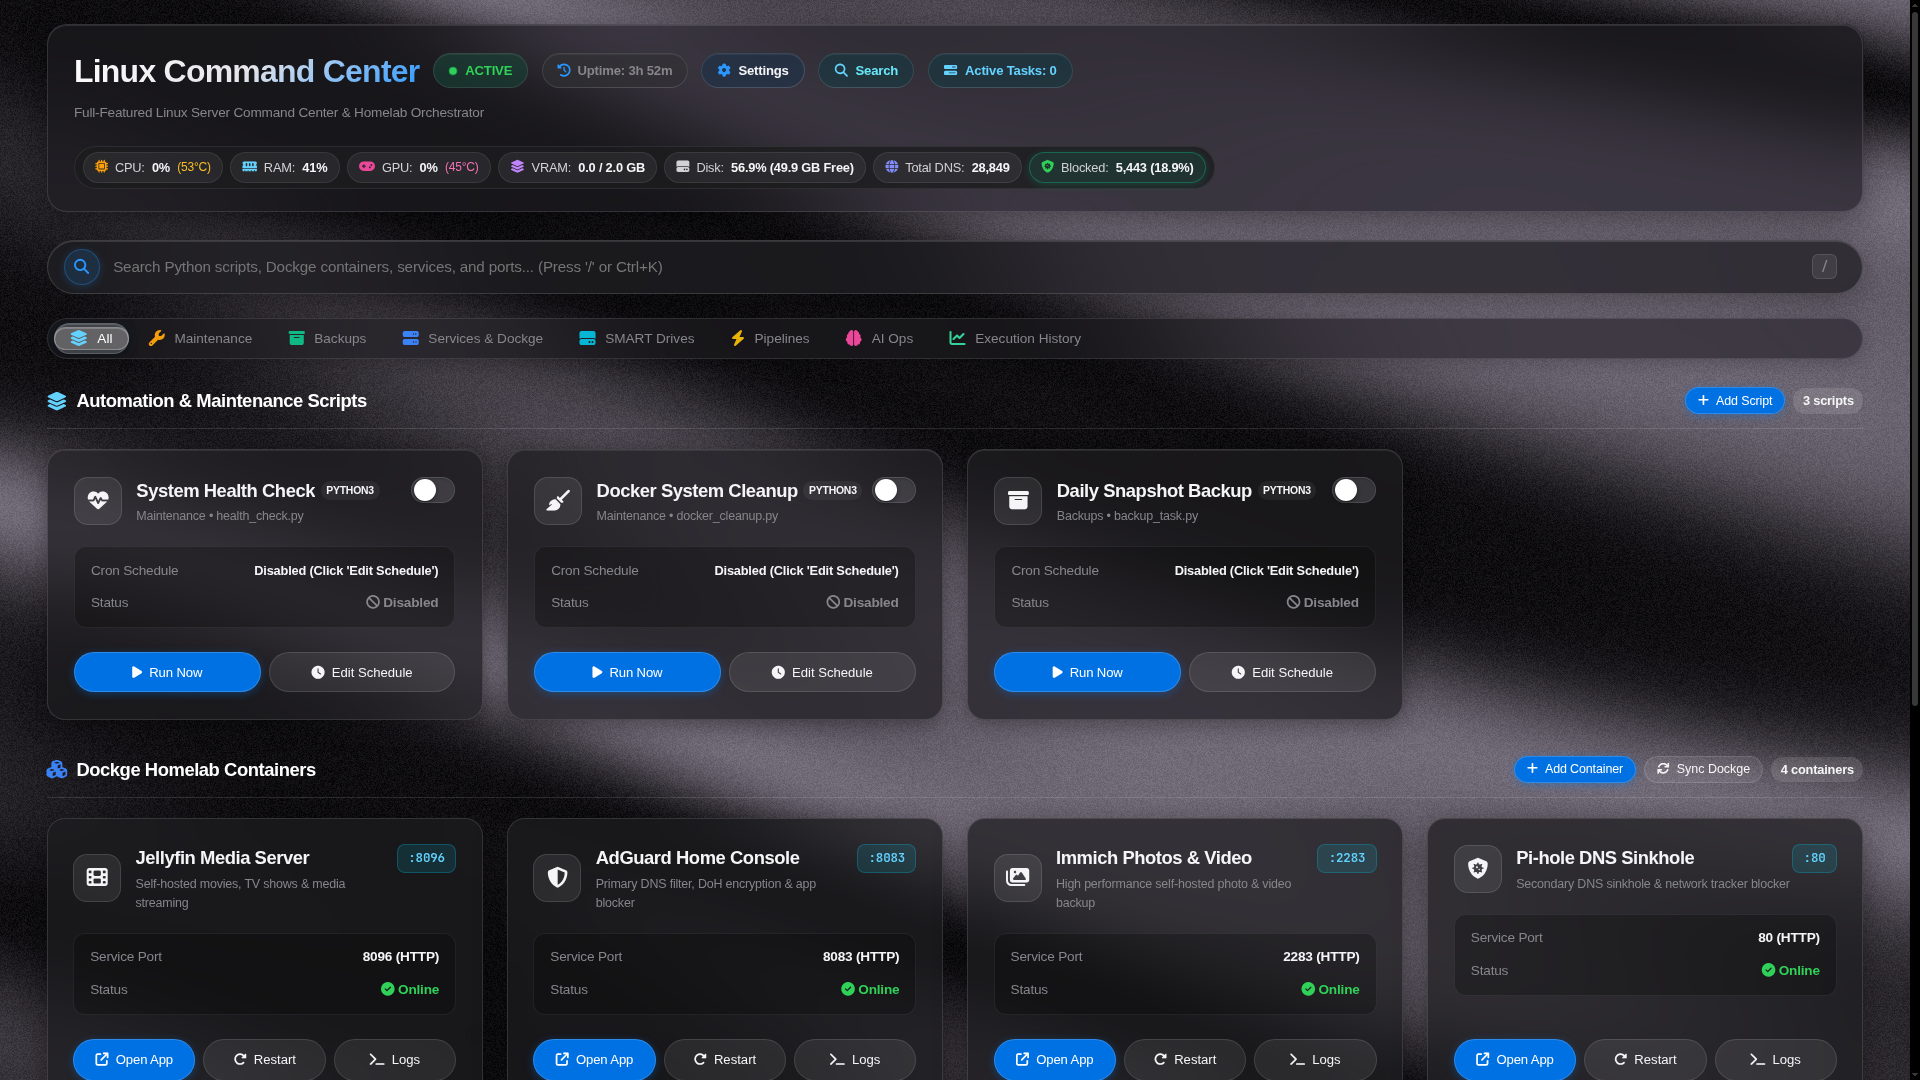
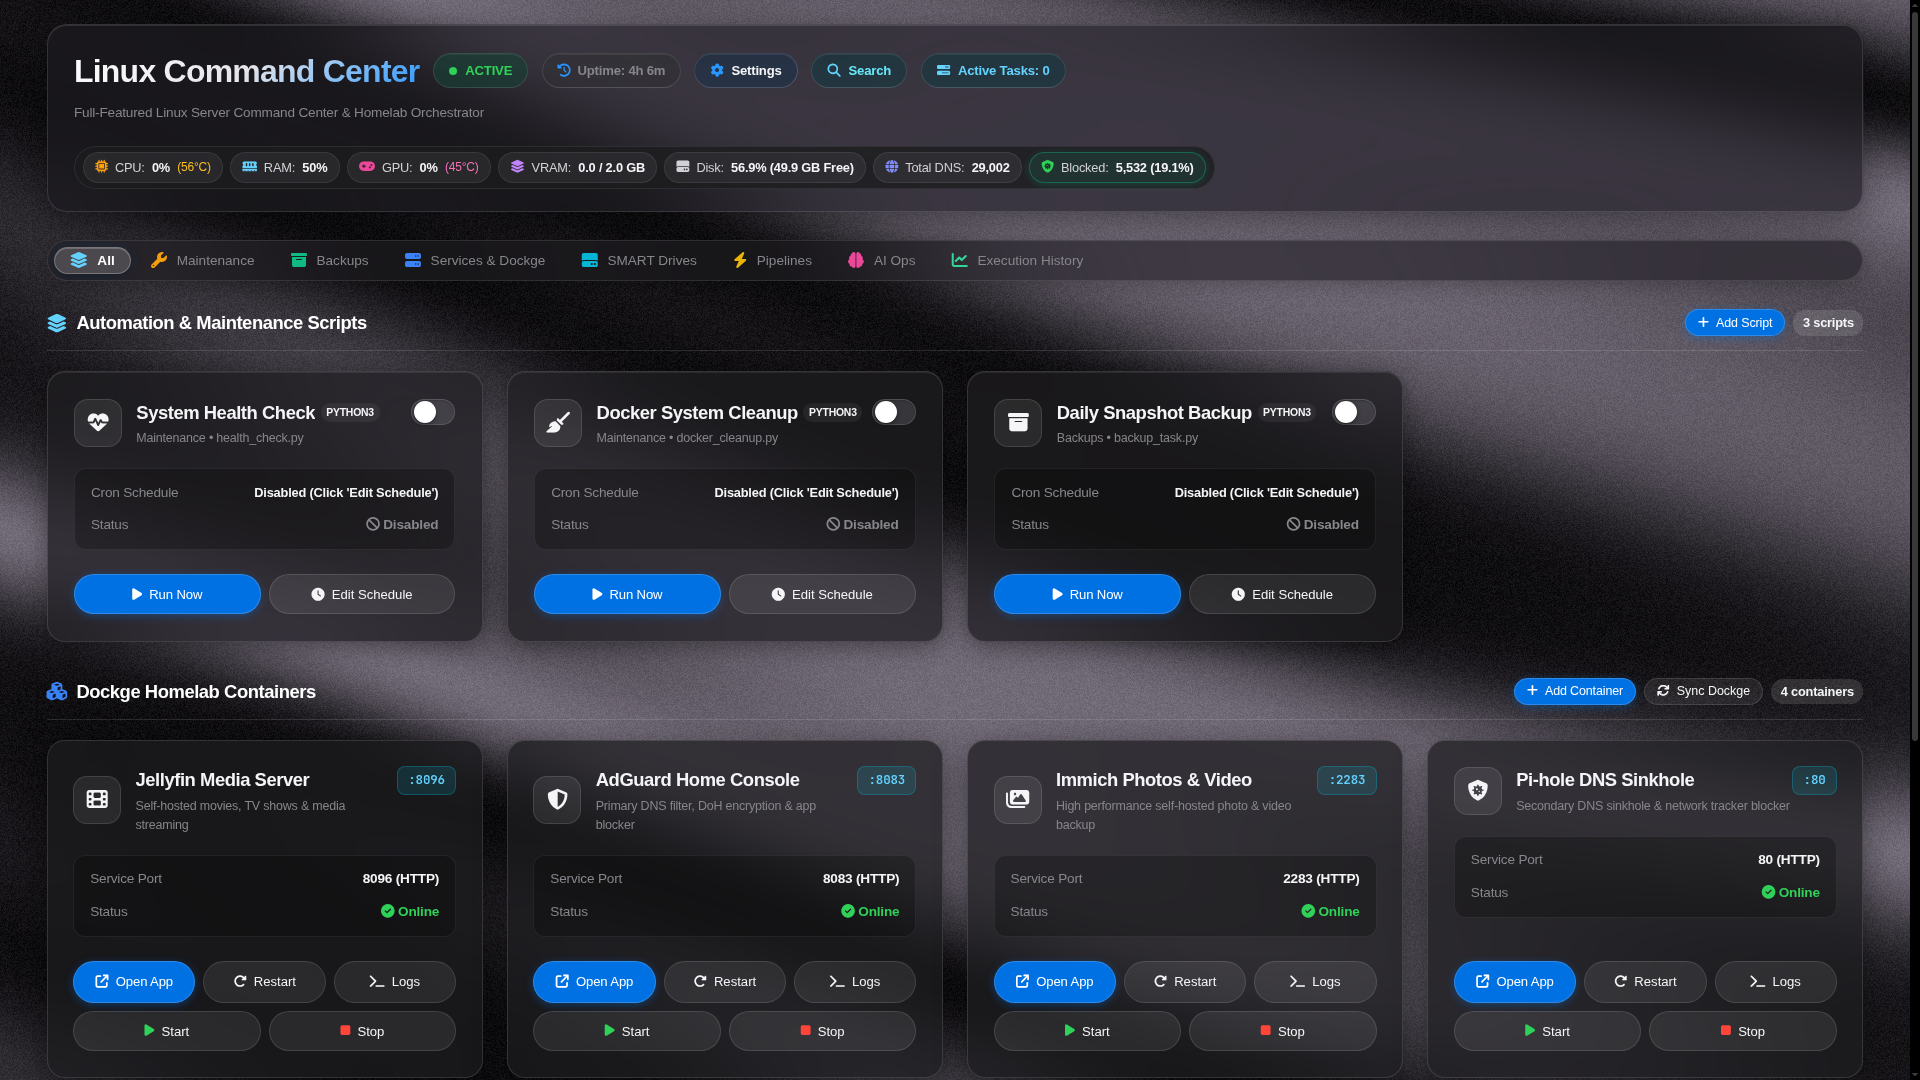
fix(ui): remove redundant search bar, resolve tab pill layering, and update showcase media (v1.1.0)

diff --git a/templates/index.html b/templates/index.html
@@ -83,20 +83,6 @@
         </div>
     </header>
 
-    <!-- Apple Spotlight Style Search Bar -->
-    <div class="global-search-container" style="margin-bottom: 1.5rem; display: flex; align-items: center; gap: 0.85rem;">
-        <div class="search-icon-box">
-            <i class="fa-solid fa-magnifying-glass"></i>
-        </div>
-        <div style="flex: 1; position: relative; display: flex; align-items: center;">
-            <input type="text" id="global-search-input" placeholder="Search Python scripts, Dockge containers, services, and ports... (Press '/' or Ctrl+K)" oninput="filterCardsInstant(this.value)" style="width: 100%; padding: 0.55rem 3.2rem 0.55rem 0; background: transparent; border: none; color: var(--text-primary); font-size: 0.95rem; font-weight: 500; outline: none; letter-spacing: -0.01em;">
-            <button id="search-clear-btn" onclick="clearGlobalSearch()" style="display: none; position: absolute; right: 2.8rem; width: 22px; height: 22px; border-radius: 50%; background: rgba(255, 255, 255, 0.15); border: none; color: #a1a1a6; cursor: pointer; font-size: 0.75rem; align-items: center; justify-content: center; padding: 0;" title="Clear search">
-                <i class="fa-solid fa-xmark"></i>
-            </button>
-            <span style="position: absolute; right: 0.6rem; background: rgba(255, 255, 255, 0.08); color: #86868b; border: 1px solid rgba(255, 255, 255, 0.12); padding: 0.18rem 0.5rem; border-radius: 6px; font-size: 0.72rem; font-family: -apple-system, BlinkMacSystemFont, 'SF Pro Text', 'JetBrains Mono', monospace; font-weight: 600; pointer-events: none;">/</span>
-        </div>
-    </div>
-
     <!-- Category Filter Tabs with Color Accents & Group Dividers -->
     <div class="category-tabs">
         <div class="category-tabs-inner" id="categoryTabsInner">

diff --git a/static/css/dashboard.css b/static/css/dashboard.css
@@ -363,16 +363,27 @@
             flex-shrink: 0 !important;
         }
 
+        :root[data-theme="apple"] .tab-spring-pill {
+            top: 2px !important;
+            bottom: 2px !important;
+        }
+
         :root[data-theme="apple"] .tab-btn:hover {
-            color: #f5f5f7 !important;
+            color: #ffffff !important;
             background: rgba(255, 255, 255, 0.08) !important;
         }
 
+        :root[data-theme="apple"] .tab-btn:active {
+            transform: scale(0.96) !important;
+        }
+
         :root[data-theme="apple"] .tab-btn.active {
-            background: rgba(255, 255, 255, 0.18) !important;
-            border-color: rgba(255, 255, 255, 0.16) !important;
+            background: transparent !important;
+            border: 1px solid transparent !important;
+            border-color: transparent !important;
             color: #ffffff !important;
-            box-shadow: 0 2px 10px rgba(0, 0, 0, 0.32), inset 0 1px 0 rgba(255, 255, 255, 0.15) !important;
+            font-weight: 600 !important;
+            box-shadow: none !important;
         }
 
         :root[data-theme="apple"] .slider {
